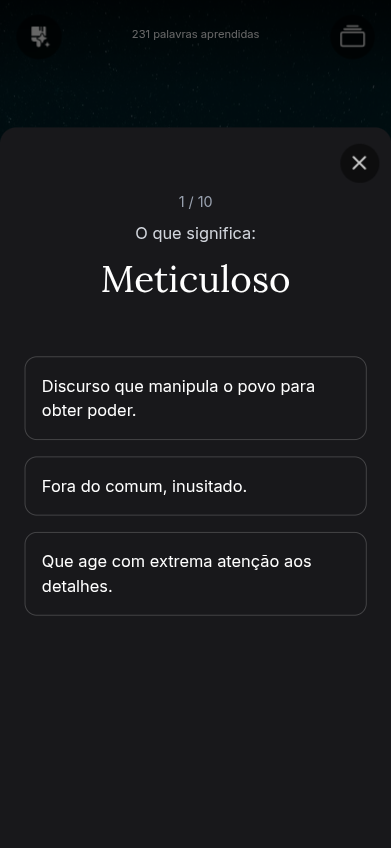
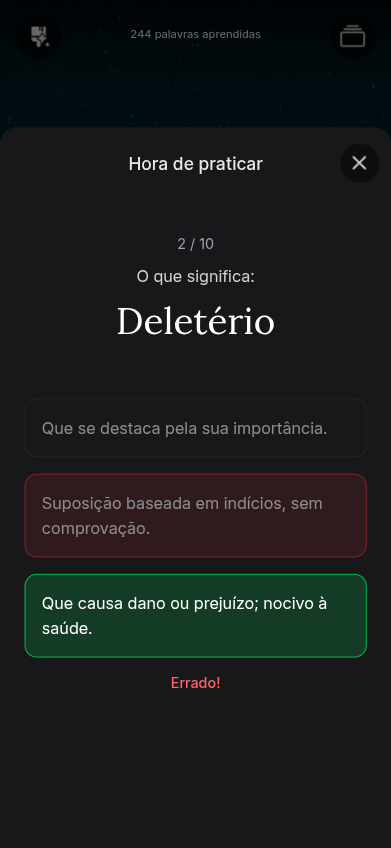
Changes

diff --git a/components/PracticeSheet.vue b/components/PracticeSheet.vue
@@ -177,51 +177,54 @@ function restart() {
       </Button>
     </div>
 
-    <Transition v-else-if="currentQuestion" name="slide" mode="out-in">
-      <div :key="state.currentIndex" class="px-6 pt-16">
-        <div class="text-sm text-gray-400 mb-2 text-center">
-          {{ state.currentIndex + 1 }}
-          / {{ state.questions.length }}
-        </div>
+    <div v-else-if="currentQuestion">
+      <h3 class="text-[1.06rem] font-medium text-center opacity-90 pt-6">Hora de praticar</h3>
+      <Transition name="slide" mode="out-in">
+        <div :key="state.currentIndex" class="px-6 pt-14">
+          <div class="text-sm text-gray-400 mb-2 text-center">
+            {{ state.currentIndex + 1 }}
+            / {{ state.questions.length }}
+          </div>
 
-        <p class="text-gray-300 text-center mb-3">O que significa:</p>
+          <p class="opacity-80 text-center mb-3">O que significa:</p>
 
-        <p class="text-4xl font-lora text-center mb-14">{{ currentQuestion.word }}</p>
+          <p class="text-4xl font-lora text-center mb-14">{{ currentQuestion.word }}</p>
 
-        <div class="space-y-4">
-          <button
-            v-for="(opt, i) in currentQuestion.options"
-            :key="i"
-            type="button"
-            class="w-full text-left p-4 rounded-xl border transition-all duration-300 cursor-pointer"
-            :class="
+          <div class="space-y-4">
+            <button
+              v-for="(opt, i) in currentQuestion.options"
+              :key="i"
+              type="button"
+              class="w-full text-left p-4 rounded-xl border transition-all duration-300 cursor-pointer"
+              :class="
               state.selectedIndex !== null
                 ? opt.correct
                   ? 'border-green-500 bg-green-500/20'
                   : i === state.selectedIndex
-                    ? 'border-red-500 bg-red-500/20'
+                    ? 'border-red-500 bg-red-500/20 opacity-50 transition-all duration-1000'
                     : 'border-white/10 opacity-50'
                 : 'border-white/20 hover:border-white/40'
             "
-            @click="selectOption(i)"
-          >
-            {{ opt.text }}
-          </button>
-        </div>
+              @click="selectOption(i)"
+            >
+              {{ opt.text }}
+            </button>
+          </div>
 
-        <div
-          v-if="state.selectedIndex !== null"
-          class="mt-4 text-center text-sm font-medium"
-          :class="
+          <div
+            v-if="state.selectedIndex !== null"
+            class="mt-4 text-center text-sm font-medium"
+            :class="
             currentQuestion.options[state.selectedIndex].correct
               ? 'text-green-400'
               : 'text-red-400'
           "
-        >
-          {{ currentQuestion.options[state.selectedIndex].correct ? 'Correto!' : 'Errado!' }}
+          >
+            {{ currentQuestion.options[state.selectedIndex].correct ? 'Correto!' : 'Errado!' }}
+          </div>
         </div>
-      </div>
-    </Transition>
+      </Transition>
+    </div>
   </ModalSheet>
 </template>
 

diff --git a/stores/theme.ts b/stores/theme.ts
@@ -4,8 +4,6 @@ import { useStorage } from '@vueuse/core';
 import themesData from '../data/themes.json';
 import { afterLast } from '../lib/utils';
 
-const SYSTEM_FONTS = new Set(['serif', 'sans-serif', 'monospace']);
-
 export interface Theme {
   key: string;
   background: string;
@@ -34,19 +32,28 @@ export const useThemeStore = defineStore('theme', () => {
   return { currentThemeKey, currentTheme, themes, setTheme };
 });
 
+const SYSTEM_FONTS = new Set([
+  'serif',
+  'sans-serif',
+  'monospace',
+  'Arial',
+  'Times New Roman',
+  'Courier New',
+]);
+
 function loadAllGoogleFonts() {
-  const families = themesData
+  const fonts = themesData
     .filter((t) => !SYSTEM_FONTS.has(t.font))
     .map((t) => t.font)
     .filter((f, i, arr) => arr.indexOf(f) === i)
-    .map((f) => `family=${encodeURIComponent(f)}`)
+    .map((f) => `family=${f.replaceAll(' ', '+')}`)
     .join('&');
 
-  if (!families) return;
+  if (!fonts) return;
 
   const link = document.createElement('link');
   link.rel = 'stylesheet';
-  link.href = `https://fonts.googleapis.com/css2?${families}&display=swap`;
+  link.href = `https://fonts.googleapis.com/css2?${fonts}&display=swap`;
   document.head.appendChild(link);
 }
 

diff --git a/App.vue b/App.vue
@@ -1,7 +1,5 @@
 <script setup lang="ts">
 import { ref, computed, provide } from 'vue';
-import { FaHandsClapping } from '@kalimahapps/vue-icons/fa';
-import { useWordsStore } from './stores/feed.ts';
 import { useThemeStore } from './stores/theme.ts';
 import WordFeed from './components/WordFeed.vue';
 import FeedTopActions from './components/FeedTopActions.vue';

diff --git a/index.html b/index.html
@@ -10,11 +10,11 @@
     <meta name="mobile-web-app-capable" content="yes" />
     <link rel="manifest" crossorigin="use-credentials" href="/manifest.json" />
     <link rel="preconnect" href="https://fonts.googleapis.com" />
+    <link rel="preconnect" href="https://fonts.gstatic.com" crossorigin />
     <link
       rel="stylesheet"
       href="https://cdn.jsdelivr.net/npm/pwa-add-to-homescreen@4.1.0/dist/add-to-homescreen.min.css"
     />
-    <link rel="preconnect" href="https://fonts.gstatic.com" crossorigin />
     <link
       href="https://fonts.googleapis.com/css2?family=Inter:ital,opsz,wght@0,14..32,100..900;1,14..32,100..900&display=swap"
       rel="stylesheet"

diff --git a/README.md b/README.md
@@ -1,6 +1,8 @@
-# <img src="./public/icon.png" width="40"/> Vocabulary
+# <img src="./public/icon.png" width="36"/> Vocabulary
 
 Um web app para aprender novas palavras em formato de feed vertical, similar ao TikTok.
+
+[![Online Demo](https://img.shields.io/badge/Online-Demo-brightgreen.svg)](https://iagobruno.github.io/gta6-website/)
 
 | Onboarding | Feed | Prática | Sequência |
 |--|--|--|--|